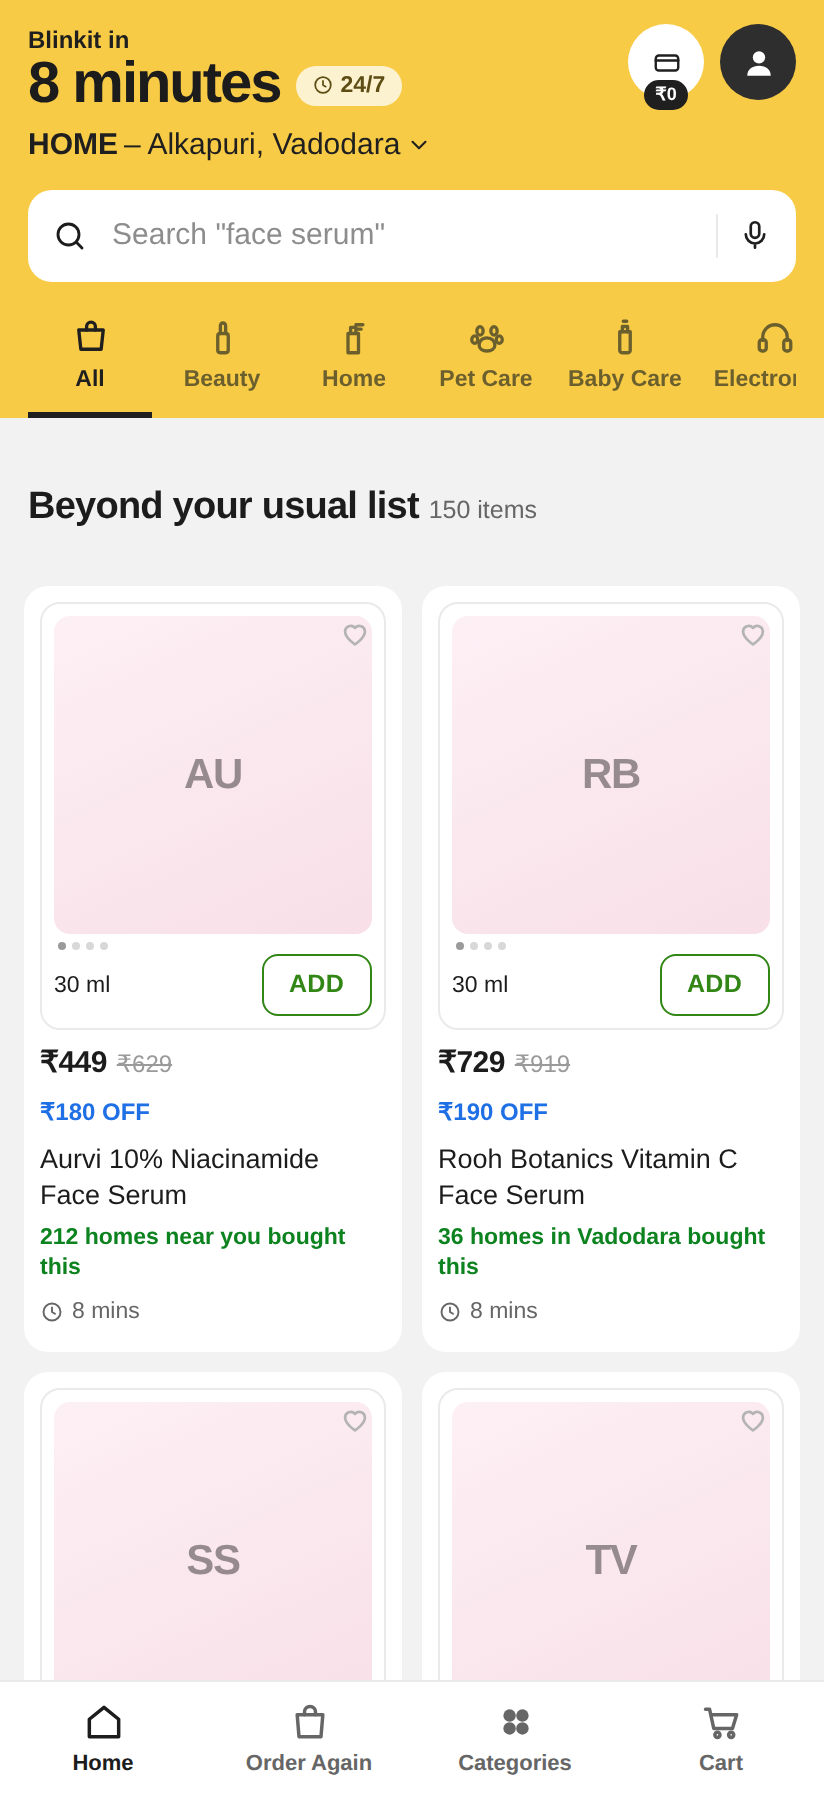
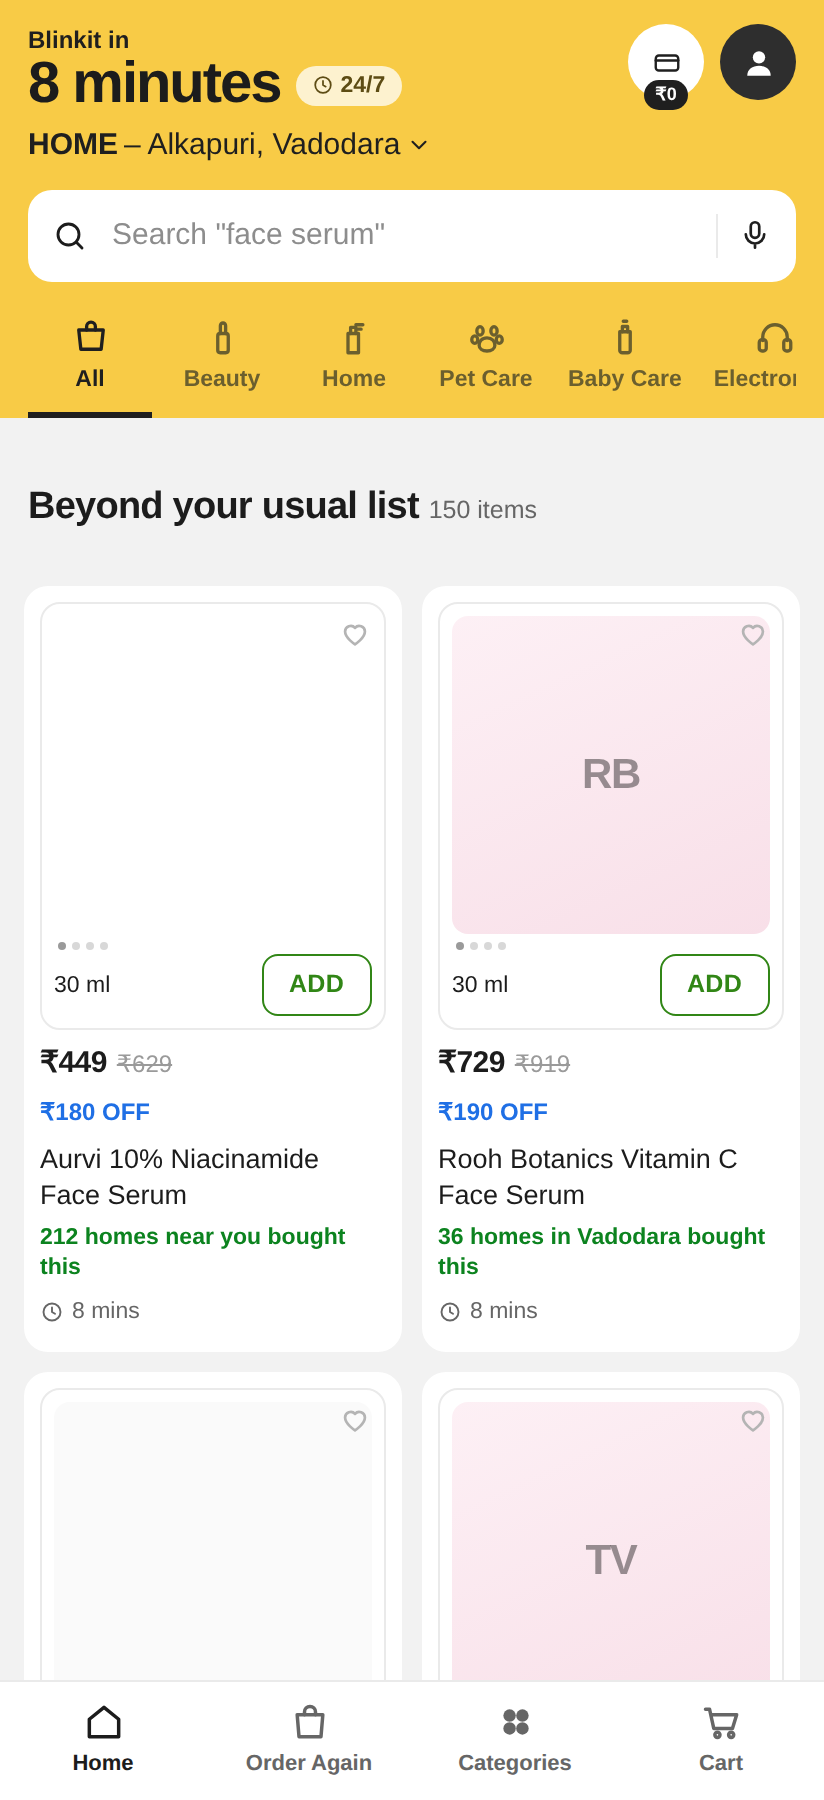
Support product images, with a tinted-tile fallback
Images are resolved through a manifest built at build time rather than
by checking the filesystem at request time: files under public/ are
served as static assets and are not reliably readable from a
serverless function.

Lookup order per SKU, first match wins:
  public/products/<SKU>.<ext>          exact override
  public/products/types/<slug>.<ext>   shared by every brand of a product
  no image, and the UI renders the tinted tile

The type-level file is what makes this cheap: one onion-hair-oil.jpg
covers every onion hair oil in the catalogue, so 21 files cover 41
SKUs. npm run images prints which product types are still uncovered,
ordered by how many SKUs each would cover.

The fallback is a normal state, not an error. A concept demo does not
need 150 product shots, and both variants keep the same footprint so a
partly-photographed catalogue still lays out evenly.

Grid tracks are minmax(0, 1fr) so aspect-ratio stays authoritative -
without it a tall photo set the row height and stretched the tile.
Verified with a deliberately 200x520 image: it letterboxes and the
container holds its ratio.

public/products/README.md documents the naming, and notes that brands
in this catalogue are invented so real brand photography must not be
used - it would not match the name on the card and would put someone
else's copyrighted image on a public URL.

Claude-Session: https://claude.ai/code/session_01N9vBRTZ8hLAoYEAGgQJA4Y

Changed region(s): [[0.0607, 0.4044, 0.4551, 0.5289], [0.2124, 0.84, 0.3034, 0.8711], [0.3944, 0.9022, 0.4551, 0.9333]]

diff --git a/components/Thumb.tsx b/components/Thumb.tsx
@@ -1,7 +1,10 @@
 /**
- * Stand-in for product photography. Real catalogue images are not part of a
- * concept demo, so each SKU gets a stable tinted tile derived from its brand -
- * consistent between the listing and the product page.
+ * Product imagery.
+ *
+ * Renders a real photo when one exists in public/products (see the README
+ * there), and otherwise a stable tinted tile derived from the brand. Both
+ * variants keep the same footprint, so a catalogue that is only partly
+ * photographed still lays out evenly.
  */
 
 const TINTS: Record<string, [string, string]> = {
@@ -26,51 +29,45 @@ export function Thumb({
   brand,
   name,
   category,
+  image,
   variant = "card",
 }: {
   brand: string;
   name: string;
   category: string;
+  image?: string | null;
   variant?: "card" | "pdp";
 }) {
   const [from, to] = TINTS[category] ?? ["#f5f5f5", "#e9e9e9"];
   const label = `${brand} ${name}`;
+  const isPdp = variant === "pdp";
 
-  if (variant === "pdp") {
+  if (image) {
     return (
-      <div
-        className="pdp-media"
-        style={{ background: `linear-gradient(155deg, ${from}, ${to})` }}
-        role="img"
-        aria-label={label}
-      >
-        <div>
-          <div>{shortLabel(brand)}</div>
-          <div style={{ fontSize: 14, fontWeight: 600, marginTop: 10, letterSpacing: 0 }}>
-            {brand}
-          </div>
-        </div>
+      <div className={isPdp ? "pdp-media" : "thumb"} data-photo="true">
+        {/* eslint-disable-next-line @next/next/no-img-element */}
+        <img src={image} alt={label} loading={isPdp ? "eager" : "lazy"} />
       </div>
     );
   }
 
   return (
     <div
-      style={{
-        aspectRatio: "1 / 1",
-        borderRadius: 8,
-        display: "grid",
-        placeItems: "center",
-        fontWeight: 800,
-        fontSize: 21,
-        letterSpacing: "-0.03em",
-        color: "rgba(0,0,0,0.4)",
-        background: `linear-gradient(155deg, ${from}, ${to})`,
-      }}
+      className={isPdp ? "pdp-media" : "thumb"}
+      style={{ background: `linear-gradient(155deg, ${from}, ${to})` }}
       role="img"
       aria-label={label}
     >
-      {shortLabel(brand)}
+      {isPdp ? (
+        <div>
+          <div>{shortLabel(brand)}</div>
+          <div style={{ fontSize: 14, fontWeight: 600, marginTop: 10, letterSpacing: 0 }}>
+            {brand}
+          </div>
+        </div>
+      ) : (
+        shortLabel(brand)
+      )}
     </div>
   );
 }

diff --git a/app/globals.css b/app/globals.css
@@ -345,6 +345,41 @@ button {
   position: relative;
 }
 
+/* Both the photo and the tinted-tile fallback keep the same footprint, so a
+ * partly-photographed catalogue still lays out evenly. */
+.thumb {
+  aspect-ratio: 1 / 1;
+  border-radius: 8px;
+  display: grid;
+  place-items: center;
+  /* minmax(0, 1fr) keeps aspect-ratio authoritative: without it a tall photo
+   * sets the row height and stretches the tile. */
+  grid-template-columns: minmax(0, 1fr);
+  grid-template-rows: minmax(0, 1fr);
+  font-weight: 800;
+  font-size: 21px;
+  letter-spacing: -0.03em;
+  color: rgba(0, 0, 0, 0.4);
+  overflow: hidden;
+}
+
+.thumb img,
+.pdp-media img {
+  width: 100%;
+  height: 100%;
+  object-fit: contain;
+  display: block;
+}
+
+.thumb[data-photo="true"] {
+  background: #fff;
+}
+
+.pdp-media[data-photo="true"] {
+  background: #fff;
+  padding: 14px;
+}
+
 .pcard-fav {
   position: absolute;
   top: 6px;
@@ -466,6 +501,8 @@ button {
   aspect-ratio: 5 / 4;
   display: grid;
   place-items: center;
+  grid-template-columns: minmax(0, 1fr);
+  grid-template-rows: minmax(0, 1fr);
   font-weight: 800;
   font-size: 40px;
   letter-spacing: -0.04em;

diff --git a/components/BrowseClient.tsx b/components/BrowseClient.tsx
@@ -45,6 +45,7 @@ export type BrowseItem = {
   discountPercent: number;
   proofLine: string;
   hasProof: boolean;
+  image: string | null;
 };
 
 const TAB_LABEL: Record<string, string> = {
@@ -167,7 +168,12 @@ export function BrowseClient({
                 <span className="pcard-fav">
                   <HeartIcon />
                 </span>
-                <Thumb brand={item.brand} name={item.name} category={item.category} />
+                <Thumb
+                  brand={item.brand}
+                  name={item.name}
+                  category={item.category}
+                  image={item.image}
+                />
                 <div className="pcard-dots">
                   <i data-on="true" />
                   <i />

diff --git a/app/p/[sku]/page.tsx b/app/p/[sku]/page.tsx
@@ -24,6 +24,7 @@ import {
   ShieldIcon,
   TagIcon,
 } from "@/components/icons";
+import { imageFor } from "@/lib/images";
 import { etaMinutes, getItem, getProfile, getProof, getStore } from "@/lib/retrieval";
 
 export default async function ProductPage({
@@ -66,7 +67,13 @@ export default async function ProductPage({
             <ShareIcon />
           </span>
         </div>
-        <Thumb brand={item.brand} name={item.name} category={item.category} variant="pdp" />
+        <Thumb
+          brand={item.brand}
+          name={item.name}
+          category={item.category}
+          image={imageFor(item.id)}
+          variant="pdp"
+        />
       </div>
 
       <div className="dots">

diff --git a/lib/images.ts b/lib/images.ts
@@ -1,0 +1,20 @@
+/**
+ * Product image lookup, from the manifest built by scripts/build-image-manifest.mjs.
+ *
+ * Returns null when a SKU has no image, and the UI falls back to a tinted tile.
+ * That fallback is the normal case, not an error state: a concept demo does not
+ * need 150 product shots, and the ones that matter are the handful a reviewer
+ * actually clicks through.
+ */
+
+import manifest from "../data/images.json";
+
+const images = manifest as Record<string, string>;
+
+export function imageFor(skuId: string): string | null {
+  return images[skuId] ?? null;
+}
+
+export function imageCount(): number {
+  return Object.keys(images).length;
+}

diff --git a/app/browse/page.tsx b/app/browse/page.tsx
@@ -10,6 +10,7 @@
 import { redirect } from "next/navigation";
 import { BrowseClient, type BrowseItem } from "@/components/BrowseClient";
 import { listingProofLine } from "@/lib/copy";
+import { imageFor } from "@/lib/images";
 import {
   CATEGORY_ORDER,
   catalog,
@@ -54,6 +55,7 @@ export default async function BrowsePage({
         discountPercent: item.discountPercent,
         proofLine: facts.noData ? "No orders near you yet" : listingProofLine(facts),
         hasProof: !facts.noData,
+        image: imageFor(item.id),
       };
     });
 

diff --git a/public/products/README.md b/public/products/README.md
@@ -1,0 +1,45 @@
+# Product images
+
+Drop image files in here, then run `npm run images` to rebuild the manifest.
+No code changes needed — anything without an image falls back to a tinted tile.
+
+## Naming
+
+Two ways to name a file. The first that matches wins.
+
+**By product type** — put it in `types/`, named after the product with spaces
+replaced by hyphens, lowercased. Shared by every brand of that product, so one
+file covers several SKUs. This is the efficient option.
+
+```
+public/products/types/onion-hair-oil.jpg
+public/products/types/10-niacinamide-face-serum.jpg
+public/products/types/cat-scratching-post.jpg
+public/products/types/adult-dog-dry-food-chicken.jpg
+```
+
+**By SKU** — put it directly in `products/`, named after the SKU id. Overrides
+the type image for that one product.
+
+```
+public/products/BEA-0001.jpg
+```
+
+`npm run images` prints which product types are still uncovered, sorted by how
+many SKUs each one would cover, so you always know which file to add next.
+
+## What works
+
+- `.jpg`, `.jpeg`, `.png`, `.webp`, `.avif`
+- Square-ish, product centred on a plain white or very light background. The UI
+  uses `object-fit: contain` so other aspect ratios still render without
+  distortion, they just letterbox.
+- Roughly 600×600 is plenty. These are rendered at about 180px wide on a phone.
+
+## What not to use
+
+Brand names in this catalogue are **invented** — Aurvi, Sattva Skin, Pawrush and
+so on are not real companies. So do not use a real brand's product photography:
+it will not match the name printed on the card, and it puts someone else's
+copyrighted image on a public URL. Generic unbranded product shots, or your own
+photos, or royalty-free stock.
